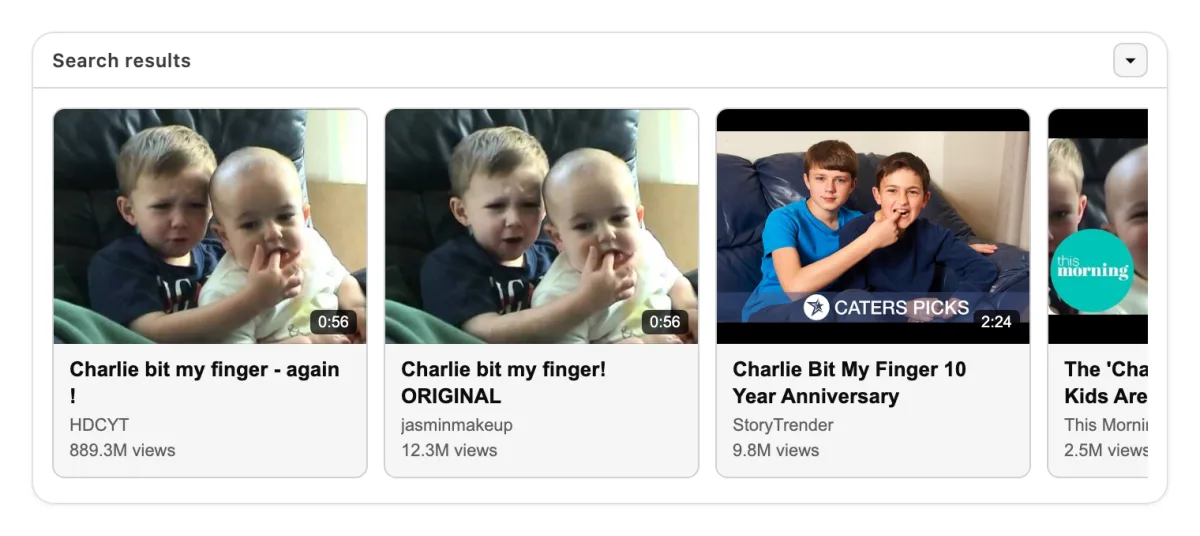
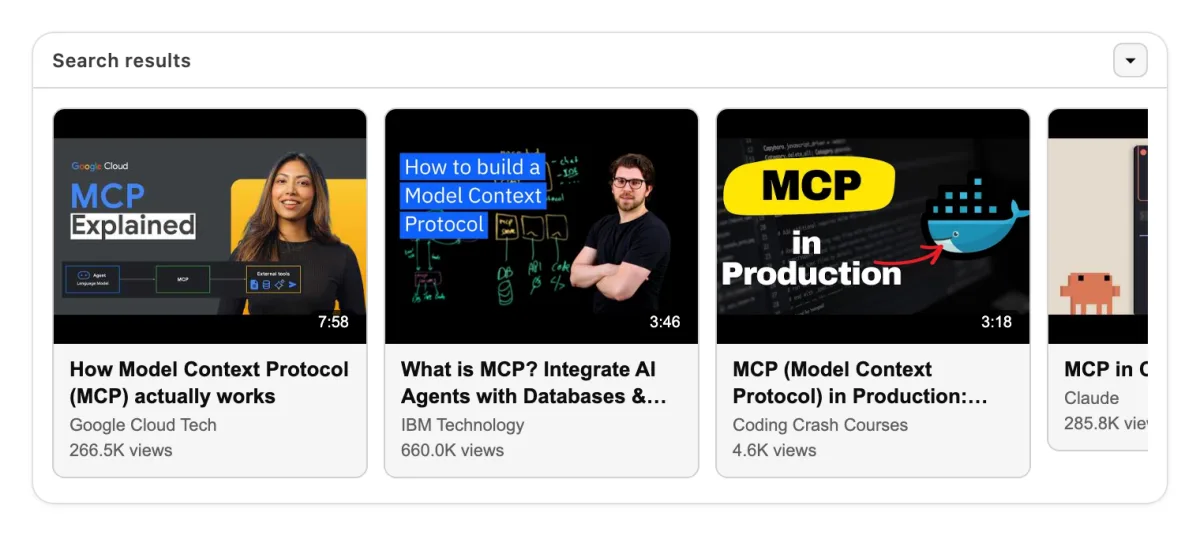
Use MCP and AI-workflow videos in the widget screenshots
The four widget screenshots were captured with classic viral videos. This
README is read by people deciding whether to wire the server into an
agent, so the examples now match that audience: a search carousel for
"model context protocol MCP server production", a captured frame of an
agent-to-server architecture slide, a 3-minute MCP explainer shown with
its official captions, and a metadata card with a 169-language picker.

Same capture path as before: production widget bundles driven by real
payloads from the hosted server.

diff --git a/README.md b/README.md
@@ -169,21 +169,21 @@ Four tools have an interactive interface: `get_transcript`, `get_video_info`, `g
   <tr>
     <td width="50%" valign="top">
       <img src="assets/widget-search.webp" alt="The search_videos widget: a carousel of result cards with thumbnails, durations, and view counts" />
-      <p align="center"><sub><code>search_videos</code> · <i>"charlie bit my finger"</i></sub></p>
+      <p align="center"><sub><code>search_videos</code> · <i>"model context protocol MCP server production"</i></sub></p>
     </td>
     <td width="50%" valign="top">
       <img src="assets/widget-video-frame.webp" alt="The get_video_frame widget: one captured frame with step controls and a timecode field" />
-      <p align="center"><sub><code>get_video_frame</code> · <i>Double Rainbow</i> at 0:34</sub></p>
+      <p align="center"><sub><code>get_video_frame</code> · an architecture slide at 3:30</sub></p>
     </td>
   </tr>
   <tr>
     <td width="50%" valign="top">
       <img src="assets/widget-transcript.webp" alt="The get_transcript widget: a video card above a searchable list of timed captions" />
-      <p align="center"><sub><code>get_transcript</code> · <i>Me at the zoo</i>, the first video on YouTube</sub></p>
+      <p align="center"><sub><code>get_transcript</code> · a 3-minute MCP explainer, official captions</sub></p>
     </td>
     <td width="50%" valign="top">
       <img src="assets/widget-video-info.webp" alt="The get_video_info widget: thumbnail, channel, views, likes, description, and a subtitle language picker" />
-      <p align="center"><sub><code>get_video_info</code> · <i>Gangnam Style</i>, 6.0B views</sub></p>
+      <p align="center"><sub><code>get_video_info</code> · channel, views, likes, and 169 caption languages</sub></p>
     </td>
   </tr>
 </table>

diff --git a/CHANGELOG.md b/CHANGELOG.md
@@ -13,7 +13,7 @@ and this project adheres to [Semantic Versioning](https://semver.org/spec/v2.0.0
 
 ### Changed
 
-- **README widget section shows the real interface:** the single `example-usage.webp` is replaced by four screenshots, one per widget, captured from the production bundles driven by real server payloads — `search_videos` ("charlie bit my finger"), `get_video_frame` (Double Rainbow at 0:34), `get_transcript` (*Me at the zoo*, the first video on YouTube), and `get_video_info` (*Gangnam Style*). They live in [assets/](assets).
+- **README widget section shows the real interface:** the single `example-usage.webp` is replaced by four screenshots, one per widget, captured from the production bundles driven by real server payloads. All four use MCP and AI-workflow material, so the images speak to the audience the README is written for: a `search_videos` carousel for *"model context protocol MCP server production"*, a `get_video_frame` capture of an agent-to-server architecture slide, a `get_transcript` view of a 3-minute MCP explainer with official captions, and a `get_video_info` card showing views, likes, and a 169-language caption picker. They live in [assets/](assets).
 - **Widgets heading no longer breaks its own anchor:** the heading emoji carried a U+FE0F variation selector, which GitHub keeps in the generated slug, so the `#-widgets` links in the MCP Apps badge and the nav bar resolved to nothing. Replaced with an emoji that needs no variation selector.
 - **FAQ section removed** from the README.
 
